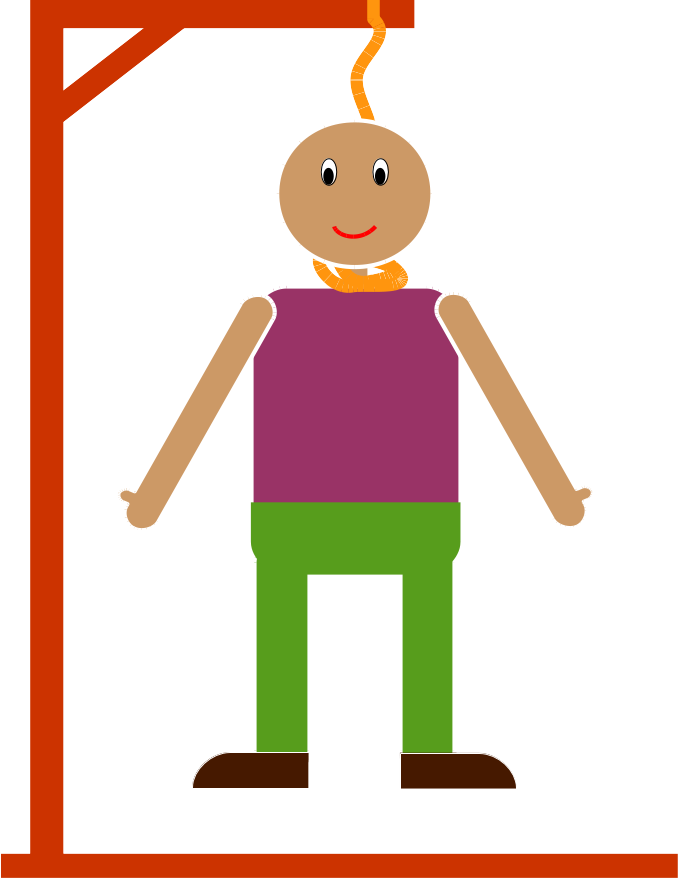
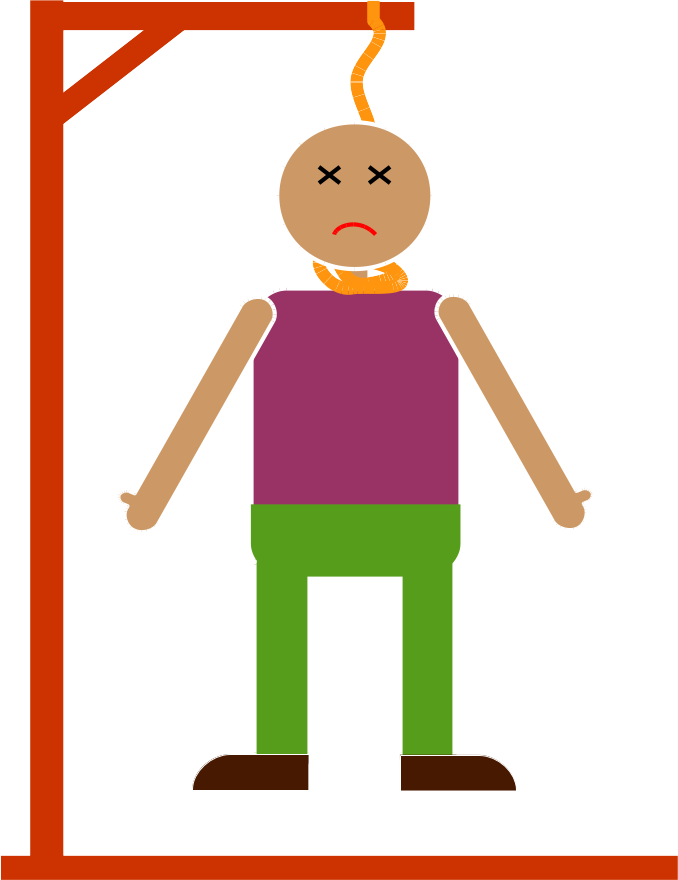
imgs hangman adding

diff --git a/hang.js b/hang.js
@@ -1,0 +1,64 @@
+$(function(){
+  $("#sobre-menu").click(function(){
+    bootbox.confirm({
+      title: "Sobre",
+      message: "Aplicativo projetado por Suyanne Hellen Holanda Pinheiro.",
+      callback: function(r){}
+    });
+  });
+
+  for (var i = 65; i <= 90; i++) {
+    var btn = document.createElement('button');
+    $(btn).addClass('btn btn-sm btn-default col-xs-1').html(String.fromCharCode(i));
+    $('#keyboard').append(btn);
+  }
+
+  $('#keyboard button').click(function(){
+    var l = $(this).html();
+    var i = palavraAtual.indexOf(l.toLowerCase());
+    if(i != -1){
+      while(i != -1){
+        palavraUser[i] = l;
+        i = palavraAtual.indexOf(l.toLowerCase(), i+1);
+      }
+      $('.hangword').html(palavraUser);
+    } else {
+      tentativas--;
+      if(tentativas == 0){
+        bootbox.alert({
+          title: "Alerta",
+          message: "Você matou o cabinha!",
+          callback: function(r){
+            //window.location = "index.html";
+          }
+        });
+      }
+      $('#imgman').attr('src','images/man'+tentativas+'.png');
+    }
+  });
+
+  function novaFrase(){
+    tentativas = 6;
+    palavraAtual = dados[indice].palavra;
+    fraseAtual = dados[indice].frase;
+    indice++;
+    $('#frase-view').html(fraseAtual);
+    var len = palavraAtual.length;
+    var map = Array.prototype.map;
+    palavraUser = map.call(palavraAtual, function(x) { return '_' });
+    $('.hangword').html(palavraUser);
+  }
+
+  dados = [
+    {'palavra':'fosforo', 'frase': 'Ja fui feito de mijo e tenho a cabeça quente'},
+    {'palavra':'carbono', 'frase': 'Tenho direito a quatro ligaões e sou pretinho algumas vezes.'},
+    {'palavra':'agua', 'frase': 'Nao tenho cor e sou molhado.'}
+  ];
+  indice = 0;
+  tentativas = 0;
+  palavraAtual = '';
+  palavraUser = '';
+  fraseAtual = '';
+  //novaFrase();
+  novaFrase();
+});

diff --git a/hang.html b/hang.html
@@ -91,7 +91,7 @@ body {
   <div id="man" class="row">
     <div class="col-xs-2"></div>
     <div class="col-xs-8">
-      <img src="images/man0.png">
+      <img id="imgman" src="images/man6.png">
     </div>
     <div class="col-xs-2"></div>
   </div>
@@ -107,57 +107,7 @@ body {
     </div>
   </div>
 </div>
-
-<script type="text/javascript">
-	$(function(){
-		$("#sobre-menu").click(function(){
-			bootbox.confirm({
-				title: "Sobre",
-				message: "Aplicativo projetado por Suyanne Hellen Holanda Pinheiro.",
-				callback: function(r){}
-			});
-		});
-
-    for (var i = 65; i <= 90; i++) {
-      var btn = document.createElement('button');
-      $(btn).addClass('btn btn-sm btn-default col-xs-1').html(String.fromCharCode(i));
-      $('#keyboard').append(btn);
-    }
-
-    $('#keyboard button').click(function(){
-      var l = $(this).html();
-      var i = palavraAtual.indexOf(l.toLowerCase());
-      if(i != -1){
-        palavraUser[i] = l;
-        $('.hangword').html(palavraUser);
-      } else {
-        console.log('matou');
-      }
-    });
-
-    function novaFrase(){
-      palavraAtual = dados[indice].palavra;
-      fraseAtual = dados[indice].frase;
-      indice++;
-      $('#frase-view').html(fraseAtual);
-      var len = palavraAtual.length;
-      var map = Array.prototype.map;
-      palavraUser = map.call(palavraAtual, function(x) { return '_' });
-      $('.hangword').html(palavraUser);
-    }
-
-    dados = [
-      {'palavra':'carbono', 'frase': 'Tenho direito a quatro ligaões e sou pretinho algumas vezes.'},
-      {'palavra':'agua', 'frase': 'Nao tenho cor e sou molhado.'}
-    ];
-    indice = 0;
-    palavraAtual = '';
-    palavraUser = '';
-    fraseAtual = '';
-    //novaFrase();
-    novaFrase();
-	});
-</script>
+<script src="hang.js" charset="utf-8"></script>
 </body>
 
 </html>
